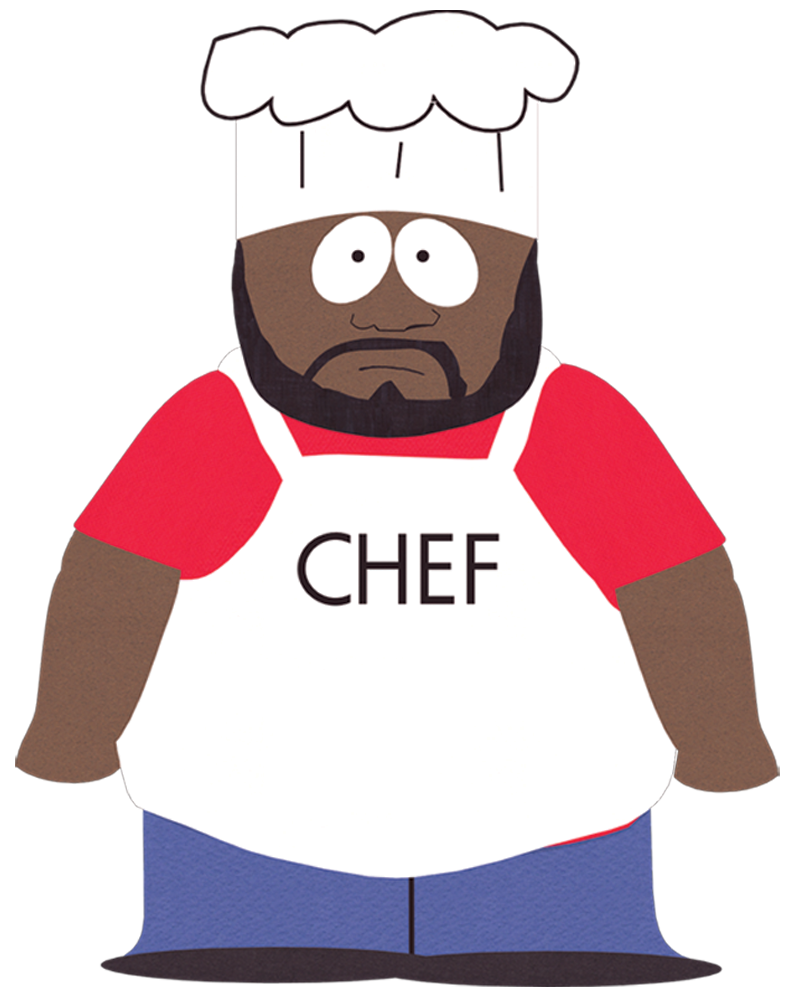
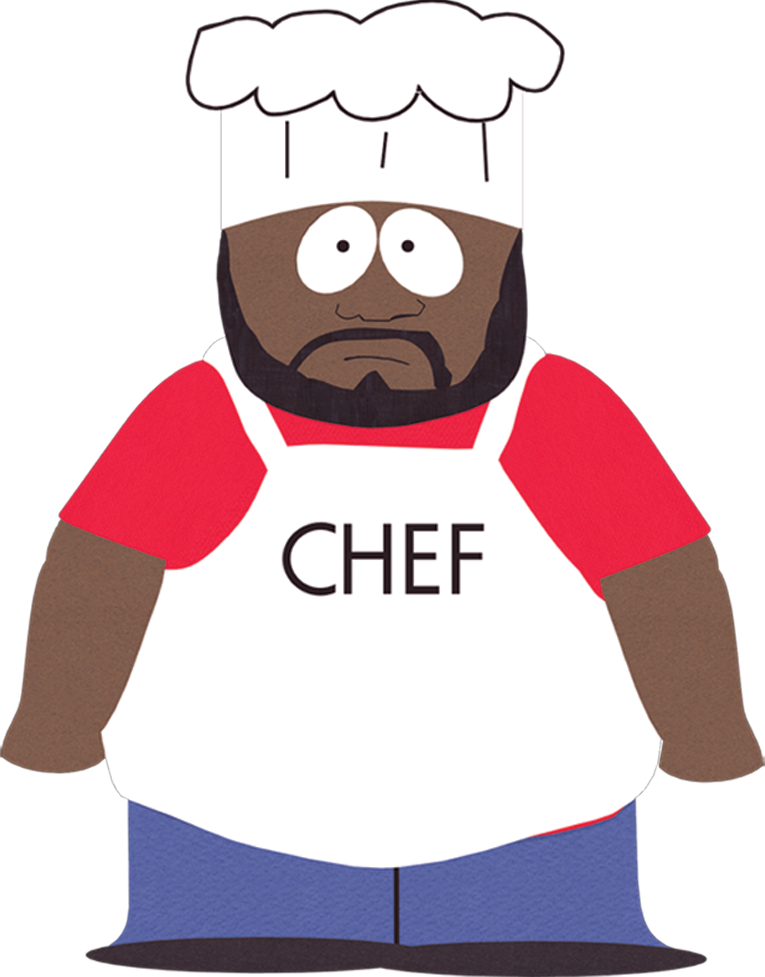
removed images borders + auto scale

diff --git a/code/graphics/src/GCard.cpp b/code/graphics/src/GCard.cpp
@@ -14,24 +14,26 @@ void GCard::init(const Card* card, sf::RenderWindow* window){
     m_card = card;
     m_window = window;
 
+    assert(m_font.loadFromFile("../graphics/fonts/"+Constants::DefaultFont()));
+
     m_size.x = Constants::DefaultCardWidth();
     m_size.y = Constants::DefaultCardHeight();
     m_position.x = 0;
     m_position.y = 0;
+    m_characterSize = Constants::DefaultCharacterSize();
 
     m_cardShape = sf::RectangleShape(m_size);
     m_cardShape.setOrigin(m_size.x/2, m_size.y/2);
 
-    assert(m_font.loadFromFile("../graphics/fonts/"+Constants::DefaultFont()));
     m_nameText.setFont(m_font);
-    m_nameText.setCharacterSize(Constants::DefaultCharacterSize());
+    m_nameText.setCharacterSize(m_characterSize);
     m_nameText.setColor(sf::Color::Red);
     m_nameText.setString(card->getName());
     sf::FloatRect nameRect = m_nameText.getLocalBounds();
     m_nameText.setOrigin(nameRect.left + nameRect.width/2.0f, nameRect.top  + nameRect.height/2.0f);
 
     m_descriptionText.setFont(m_font);
-    m_descriptionText.setCharacterSize(Constants::DefaultCharacterSize());
+    m_descriptionText.setCharacterSize(m_characterSize);
     m_descriptionText.setColor(sf::Color::Red);
     m_descriptionText.setString(card->getDescription());
     sf::FloatRect descRect = m_descriptionText.getLocalBounds();
@@ -50,6 +52,20 @@ sf::Vector2f GCard::getSize() const{
     return m_size;
 }
 
+unsigned int GCard::getCharacterSize() const{
+    return m_characterSize;
+}
+
+float GCard::getSpriteScale() const{
+    int width = m_imageTexture.getSize().x;
+    if(width>m_size.x){
+        float margin = 0.02*width;
+        float scale = (m_size.x-2.0*margin)/width;
+        return scale;
+    }
+    return 0.1f;
+}
+
 void GCard::setWindow(sf::RenderWindow *window){
     m_window = window;
 }
@@ -60,20 +76,37 @@ void GCard::setPosition(sf::Vector2f position){
 
 void GCard::setSize(sf::Vector2f size){
     m_size = size;
+    m_cardShape.setSize(size);
+    m_cardShape.setOrigin(m_size.x/2, m_size.y/2);
+    float scale = getSpriteScale();
+    m_imageSprite.setScale(scale, scale);
 }
 
-void GCard::setCardImage(std::string imagePath, float scaleX, float scaleY){
+void GCard::setCardImage(std::string imagePath){
     assert(m_imageTexture.loadFromFile(imagePath));
     m_imageTexture.setSmooth(true);
     m_imageSprite.setTexture(m_imageTexture);
     m_imageSprite.setOrigin(m_imageTexture.getSize().x/2, m_imageTexture.getSize().y/2);
-    m_imageSprite.setScale(scaleX, scaleY);
+    float scale = getSpriteScale();
+    m_imageSprite.setScale(scale, scale);
+}
+
+void GCard::setCharacterSize(unsigned int size){
+    m_characterSize = size;
+
+    m_nameText.setCharacterSize(size);
+    sf::FloatRect nameRect = m_nameText.getLocalBounds();
+    m_nameText.setOrigin(nameRect.left + nameRect.width/2.0f, nameRect.top  + nameRect.height/2.0f);
+
+    m_descriptionText.setCharacterSize(size);
+    sf::FloatRect descRect = m_descriptionText.getLocalBounds();
+    m_descriptionText.setOrigin(descRect.left + descRect.width/2.0f, descRect.top  + descRect.height/2.0f);
 }
 
 void GCard::update(){
     m_cardShape.setPosition(m_position.x, m_position.y);
-    m_nameText.setPosition(m_position.x, m_position.y-m_size.y/2 + 30);
-    m_descriptionText.setPosition(m_position.x, m_position.y+m_size.y/2-30);
+    m_nameText.setPosition(m_position.x, m_position.y-m_size.y/2 + 0.1*m_size.y);
+    m_descriptionText.setPosition(m_position.x, m_position.y+m_size.y/2- 0.1*m_size.y);
     m_imageSprite.setPosition(m_position.x, m_position.y);
 }
 

diff --git a/code/graphics/src/GCreatureCard.cpp b/code/graphics/src/GCreatureCard.cpp
@@ -11,15 +11,22 @@ GCreatureCard::GCreatureCard(const Card *card, sf::RenderWindow *window){
     m_cardShape.setOutlineThickness(Constants::DefaultCardOutlineThickness());
 
     m_lifeText.setFont(m_font);
-    m_lifeText.setCharacterSize(Constants::DefaultCharacterSize());
+    m_lifeText.setCharacterSize(m_characterSize);
     m_lifeText.setColor(sf::Color::Red);
     m_lifeText.setString(std::to_string(((const CreatureCard*)card)->getLife()));
     sf::FloatRect lifeRect = m_lifeText.getLocalBounds();
     m_lifeText.setOrigin(lifeRect.left + lifeRect.width/2.0f, lifeRect.top  + lifeRect.height/2.0f);
 }
 
+void GCreatureCard::setCharacterSize(unsigned int size){
+    GCard::setCharacterSize(size);
+    m_lifeText.setCharacterSize(size);
+    sf::FloatRect lifeRect = m_lifeText.getLocalBounds();
+    m_lifeText.setOrigin(lifeRect.left + lifeRect.width/2.0f, lifeRect.top  + lifeRect.height/2.0f);
+}
+
 void GCreatureCard::update(){
-    m_lifeText.setPosition(m_position.x, m_position.y-m_size.y/2 + 80);
+    m_lifeText.setPosition(m_position.x, m_position.y-m_size.y/2 + 0.2*m_size.y);
 }
 
 void GCreatureCard::draw(){

diff --git a/code/graphics/include/GCard.h b/code/graphics/include/GCard.h
@@ -17,10 +17,12 @@ class GCard {
         sf::Font m_font;
         sf::Vector2f m_size;
         sf::Vector2f m_position;
+        unsigned int m_characterSize;
 
         const Card* m_card;
 
         void init(const Card* card, sf::RenderWindow* window);
+        float getSpriteScale() const;
         virtual void update();
 
     public:
@@ -31,11 +33,13 @@ class GCard {
         sf::RenderWindow* getWindow() const;
         sf::Vector2f getPosition() const;
         sf::Vector2f getSize() const;
+        unsigned int getCharacterSize() const;
 
         void setWindow(sf::RenderWindow *window);
         void setPosition(sf::Vector2f position);
         void setSize(sf::Vector2f size);
-        void setCardImage(std::string imagePath, float scaleX, float scaleY);
+        void setCardImage(std::string imagePath);
+        virtual void setCharacterSize(unsigned int size);
 
         virtual void draw();
 };

diff --git a/code/graphics/src/GCardGrid.cpp b/code/graphics/src/GCardGrid.cpp
@@ -13,14 +13,14 @@ void GCardGrid::addGCards(std::vector<GCard*> gcards){
 }
 
 void GCardGrid::update(){
-    int cardWidth = Constants::DefaultCardWidth();
-    int cardHeight = Constants::DefaultCardHeight();
-    int space = 10;
+    int cardWidth = m_gcards[0]->getSize().x;
+    int cardHeight = m_gcards[0]->getSize().y;
+    int space = 5;
     int nbCardPerLine = m_gridSize.x/(cardWidth+space);
 
     int x=0,y=0;
     for(int i=0 ; i<m_gcards.size() ; i++){
-        m_gcards[i]->setPosition(sf::Vector2f(cardWidth/2+x*cardWidth, cardHeight/2+y*cardHeight));
+        m_gcards[i]->setPosition(sf::Vector2f(cardWidth/2+x*cardWidth+(x+1)*space, cardHeight/2+y*cardHeight+(y+1)*space));
         x++;
         if(i+1==nbCardPerLine){
             y++;

diff --git a/code/graphics/src/GEnergyCard.cpp b/code/graphics/src/GEnergyCard.cpp
@@ -21,8 +21,15 @@ GEnergyCard::GEnergyCard(const Card* card, sf::RenderWindow* window){
     m_energyText.setOrigin(energyRect.left + energyRect.width/2.0f, energyRect.top  + energyRect.height/2.0f);
 }
 
+void GEnergyCard::setCharacterSize(unsigned int size){
+    GCard::setCharacterSize(size);
+    m_energyText.setCharacterSize(size);
+    sf::FloatRect energyRect = m_energyText.getLocalBounds();
+    m_energyText.setOrigin(energyRect.left + energyRect.width/2.0f, energyRect.top  + energyRect.height/2.0f);
+}
+
 void GEnergyCard::update(){
-    m_energyText.setPosition(m_position.x, m_position.y-m_size.y/2 + 80);
+    m_energyText.setPosition(m_position.x, m_position.y-m_size.y/2 + 0.2*m_size.y);
 }
 
 void GEnergyCard::draw(){

diff --git a/code/graphics/include/GEnergyCard.h b/code/graphics/include/GEnergyCard.h
@@ -17,6 +17,7 @@ class GEnergyCard : public GCard {
         void setEnergyImage(std::string imagePath, float scaleX, float scaleY);
 
         void draw();
+        virtual void setCharacterSize(unsigned int size);
 };
 
 #endif

diff --git a/code/graphics/include/GCreatureCard.h b/code/graphics/include/GCreatureCard.h
@@ -15,6 +15,7 @@ class GCreatureCard : public GCard {
         GCreatureCard(const Card *card, sf::RenderWindow *window);
 
         void draw();
+        virtual void setCharacterSize(unsigned int size);
 };
 
 #endif
